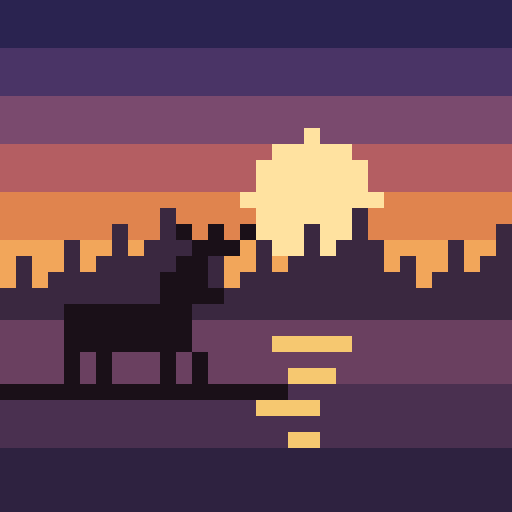
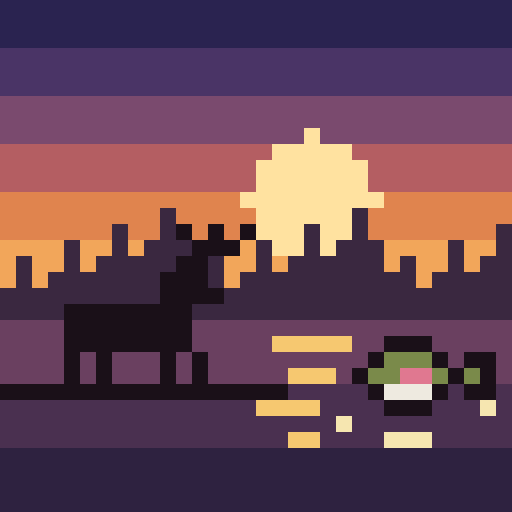
Rename the app to Fish & Game
New name in the browser tab, home-screen app, manifest and README, and
a leaping trout added to the app icon.

Claude-Session: https://claude.ai/code/session_01HzvFscfHA4zrZW9SpH5mjW

Changed region(s): [[0.6875, 0.6562, 0.9688, 0.8125], [0.75, 0.8438, 0.8438, 0.875], [0.6562, 0.8125, 0.6875, 0.8438]]

diff --git a/index.html b/index.html
@@ -3,14 +3,14 @@
   <head>
     <meta charset="UTF-8" />
     <meta name="viewport" content="width=device-width, initial-scale=1.0, viewport-fit=cover" />
-    <title>Field &amp; Lessons</title>
+    <title>Fish &amp; Game</title>
     <link rel="manifest" href="./manifest.webmanifest" />
     <link rel="icon" type="image/png" href="./icon-192.png" />
     <link rel="apple-touch-icon" href="./icon-180.png" />
     <meta name="apple-mobile-web-app-capable" content="yes" />
     <meta name="mobile-web-app-capable" content="yes" />
     <meta name="apple-mobile-web-app-status-bar-style" content="black-translucent" />
-    <meta name="apple-mobile-web-app-title" content="Hunt" />
+    <meta name="apple-mobile-web-app-title" content="Fish &amp; Game" />
     <meta name="theme-color" content="#120d0a" />
     <link rel="preconnect" href="https://fonts.googleapis.com" />
     <link rel="preconnect" href="https://fonts.gstatic.com" crossorigin />

diff --git a/README.md b/README.md
@@ -1,6 +1,6 @@
-# Hunt: Field & Lessons
+# Fish & Game
 
-A cozy 2D side-view hunting game that teaches real hunting basics as you play.
+A cozy 2D pixel-art hunting and fly fishing game that teaches real outdoor basics as you play.
 You learn by doing: buying the right gear, following the rules, reading the wind
 and placing a clean, ethical shot.
 
